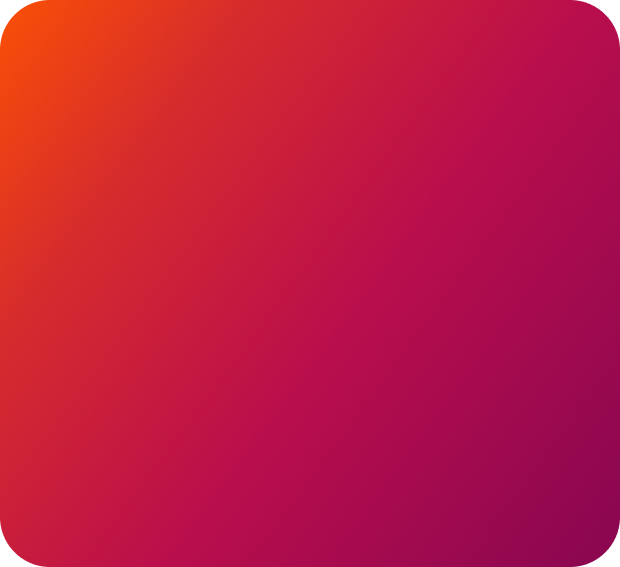
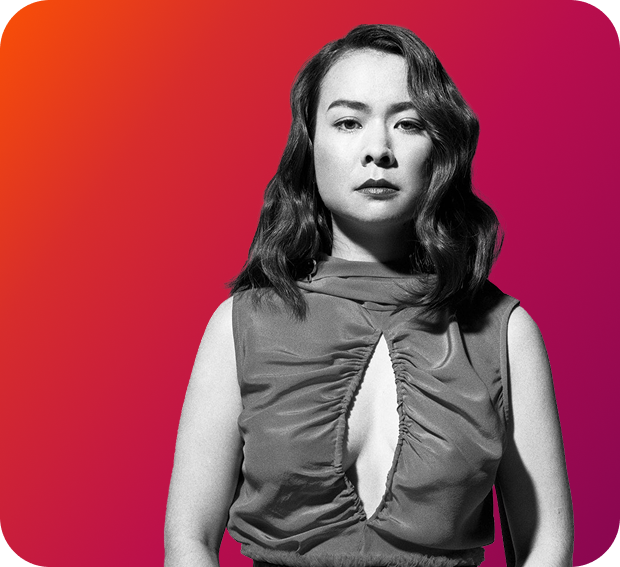
volume+progression

diff --git a/front/src/app/services/volume.service.ts b/front/src/app/services/volume.service.ts
@@ -1,0 +1,53 @@
+import { isPlatformBrowser } from '@angular/common';
+import { Injectable, PLATFORM_ID, computed, effect, inject, signal } from '@angular/core';
+
+@Injectable({ providedIn: 'root' })
+export class VolumeService {
+  private readonly STORAGE_KEY = 'app-volume';
+
+  private readonly platformId = inject(PLATFORM_ID);
+  private readonly isBrowser = isPlatformBrowser(this.platformId);
+
+  readonly volume = signal<number>(70);
+  readonly muted = signal<boolean>(false);
+
+  readonly volume01 = computed(() =>
+    this.muted() ? 0 : this.volume() / 100
+  );
+
+  constructor() {
+    if (!this.isBrowser) return;
+    this.volume.set(this.loadVolume());
+    if (this.volume() === 0) this.muted.set(true);
+
+    effect(() => {
+      const current = this.volume();
+      try {
+        localStorage.setItem(this.STORAGE_KEY, String(current));
+      } catch {}
+    });
+  }
+
+  setVolume(next: number): void {
+    const clamped = Math.max(0, Math.min(100,
+      Number.isFinite(next) ? next : 0
+    ));
+    this.volume.set(clamped);
+    if (clamped === 0) this.muted.set(true);
+    else this.muted.set(false);
+  }
+
+  toggleMute(): void {
+    this.muted.update(m => !m);
+  }
+  private loadVolume(): number {
+    if (!this.isBrowser) return 70;
+    try {
+      const stored = localStorage.getItem(this.STORAGE_KEY);
+      const parsed = Number(stored);
+      return Number.isFinite(parsed) ? Math.max(0, Math.min(100, parsed)) : 70;
+    } catch {
+      return 70;
+    }
+  }
+}

diff --git a/front/src/app/components/progression-bar/progression-bar.html b/front/src/app/components/progression-bar/progression-bar.html
@@ -1,0 +1,33 @@
+<div class="w-full rounded-full border border-[#FFE6DB]/15 bg-[#FFE6DB]/10 pl-2 pr-6 py-2 backdrop-blur-sm glass-card">
+	<div class="flex items-center gap-8 w-full min-w-0">
+		<button type="button" aria-label="Album cover" class="shrink-0 w-[3rem] h-[3rem] rounded-full overflow-hidden cursor-pointer">
+			<img src="assets/cover1.png" alt="" class="w-full h-full object-cover" />
+		</button>
+		<div class="flex items-center gap-4 shrink-0 px-4">
+			<button type="button" aria-label="Track back" class="text-[#FFE6DB] cursor-pointer">
+				<lucide-icon [img]="skipBack" class="w-[1.25rem] h-[1.25rem]"></lucide-icon>
+			</button>
+			<button type="button" [attr.aria-label]="isPlaying() ? 'Pause' : 'Play'" (click)="togglePlay()" class="text-[#FFE6DB] cursor-pointer rounded-full bg-orange-500 p-2">
+				<lucide-icon [img]="isPlaying() ? pause : play" class="w-[1.75rem] h-[1.75rem] fill-current"></lucide-icon>
+			</button>
+			<button type="button" aria-label="Track next" class="text-[#FFE6DB] cursor-pointer">
+				<lucide-icon [img]="skipForward" class="w-[1.25rem] h-[1.25rem]"></lucide-icon>
+			</button>
+		</div>
+		<div class="relative flex-1 flex items-center min-w-0 h-6 group">
+			<div class="absolute left-0 top-1/2 w-full -translate-y-1/2 h-[3px] rounded-full bg-[#FFE6DB]"></div>
+			<div
+				class="absolute left-0 top-1/2 -translate-y-1/2 h-1 rounded-full bg-orange-500 pointer-events-none"
+				[style.width.%]="progress()"
+			></div>
+			<input
+				type="range"
+				min="0" max="100" step="1"
+				[value]="progress()"
+				(input)="onInput($event)"
+				aria-label="Progress"
+				class="absolute w-full opacity-0 cursor-pointer h-6"
+			/>
+		</div>
+	</div>
+</div>

diff --git a/front/src/app/components/progression-bar/progression-bar.ts b/front/src/app/components/progression-bar/progression-bar.ts
@@ -1,0 +1,31 @@
+import { Component, signal } from '@angular/core';
+import { LucideAngularModule, Pause, Play, SkipBack, SkipForward } from 'lucide-angular';
+
+
+@Component({
+  selector: 'app-progression-bar',
+  imports: [LucideAngularModule],
+  templateUrl: './progression-bar.html',
+  styleUrl: './progression-bar.scss',
+})
+export class ProgressionBar {
+  protected readonly skipBack = SkipBack;
+  protected readonly skipForward = SkipForward;
+  protected readonly play = Play;
+  protected readonly pause = Pause;
+
+  readonly isPlaying = signal<boolean>(false);
+  readonly progress = signal<number>(35);
+
+  togglePlay(): void {
+    this.isPlaying.update((v) => !v);
+  }
+
+  onInput(event: Event): void {
+    const input = event.target as HTMLInputElement | null;
+    const next = input ? Number(input.value) : 0;
+    const clamped = Math.max(0, Math.min(100, Number.isFinite(next) ? next : 0));
+    this.progress.set(clamped);
+  }
+}
+

diff --git a/front/src/app/components/volume-slider/volume-slider.ts b/front/src/app/components/volume-slider/volume-slider.ts
@@ -1,0 +1,23 @@
+import { NgIf } from '@angular/common';
+import { Component, inject } from '@angular/core';
+import { VolumeService } from '../../services/volume.service';
+import { LucideAngularModule, Volume2, VolumeX } from 'lucide-angular';
+
+
+@Component({
+  selector: 'app-volume-slider',
+  imports: [NgIf, LucideAngularModule],
+  templateUrl: './volume-slider.html',
+  styleUrl: './volume-slider.scss',
+})
+export class VolumeSlider {
+  protected readonly volumeService = inject(VolumeService);
+
+  protected readonly volume2 = Volume2;
+  protected readonly volumeX = VolumeX;
+  protected onInput(event: Event): void {
+    const input = event.target as HTMLInputElement | null;
+    this.volumeService.setVolume(input ? Number(input.value) : 0);
+  }
+}
+

diff --git a/front/src/app/bside_app/sound-bar/sound-bar.spec.ts b/front/src/app/bside_app/sound-bar/sound-bar.spec.ts
@@ -1,0 +1,22 @@
+import { ComponentFixture, TestBed } from '@angular/core/testing';
+
+import { SoundBar } from './sound-bar';
+
+describe('SoundBar', () => {
+  let component: SoundBar;
+  let fixture: ComponentFixture<SoundBar>;
+
+  beforeEach(async () => {
+    await TestBed.configureTestingModule({
+      imports: [SoundBar],
+    }).compileComponents();
+
+    fixture = TestBed.createComponent(SoundBar);
+    component = fixture.componentInstance;
+    await fixture.whenStable();
+  });
+
+  it('should create', () => {
+    expect(component).toBeTruthy();
+  });
+});

diff --git a/front/src/app/components/icon-bar/icon-bar.spec.ts b/front/src/app/components/icon-bar/icon-bar.spec.ts
@@ -1,0 +1,22 @@
+import { ComponentFixture, TestBed } from '@angular/core/testing';
+
+import { IconBar } from './icon-bar';
+
+describe('IconBar', () => {
+  let component: IconBar;
+  let fixture: ComponentFixture<IconBar>;
+
+  beforeEach(async () => {
+    await TestBed.configureTestingModule({
+      imports: [IconBar],
+    }).compileComponents();
+
+    fixture = TestBed.createComponent(IconBar);
+    component = fixture.componentInstance;
+    await fixture.whenStable();
+  });
+
+  it('should create', () => {
+    expect(component).toBeTruthy();
+  });
+});

diff --git a/front/src/app/components/progression-bar/progression-bar.spec.ts b/front/src/app/components/progression-bar/progression-bar.spec.ts
@@ -1,0 +1,22 @@
+import { ComponentFixture, TestBed } from '@angular/core/testing';
+
+import { ProgressionBar } from './progression-bar';
+
+describe('ProgressionBar', () => {
+  let component: ProgressionBar;
+  let fixture: ComponentFixture<ProgressionBar>;
+
+  beforeEach(async () => {
+    await TestBed.configureTestingModule({
+      imports: [ProgressionBar],
+    }).compileComponents();
+
+    fixture = TestBed.createComponent(ProgressionBar);
+    component = fixture.componentInstance;
+    await fixture.whenStable();
+  });
+
+  it('should create', () => {
+    expect(component).toBeTruthy();
+  });
+});

diff --git a/front/src/app/components/volume-slider/volume-slider.spec.ts b/front/src/app/components/volume-slider/volume-slider.spec.ts
@@ -1,0 +1,22 @@
+import { ComponentFixture, TestBed } from '@angular/core/testing';
+
+import { VolumeSlider } from './volume-slider';
+
+describe('VolumeSlider', () => {
+  let component: VolumeSlider;
+  let fixture: ComponentFixture<VolumeSlider>;
+
+  beforeEach(async () => {
+    await TestBed.configureTestingModule({
+      imports: [VolumeSlider],
+    }).compileComponents();
+
+    fixture = TestBed.createComponent(VolumeSlider);
+    component = fixture.componentInstance;
+    await fixture.whenStable();
+  });
+
+  it('should create', () => {
+    expect(component).toBeTruthy();
+  });
+});

diff --git a/front/src/app/components/volume-slider/volume-slider.html b/front/src/app/components/volume-slider/volume-slider.html
@@ -1,0 +1,19 @@
+<div class="flex items-center gap-3 w-full min-w-0">
+  <button (click)="volumeService.toggleMute()" class="text-[#FFE6DB]">
+    <lucide-icon *ngIf="!volumeService.muted()" [img]="volume2" class="w-[1rem] h-[1rem]"></lucide-icon>
+    <lucide-icon *ngIf="volumeService.muted()" [img]="volumeX" class="w-[1rem] h-[1rem]"></lucide-icon>
+  </button>
+  <div class="relative flex items-center w-full min-w-0 h-6 group">
+    <div class="absolute left-0 top-1/2 w-full -translate-y-1/2 h-[3px] rounded-full bg-[#FFE6DB]"></div>
+    <div class="absolute left-0 top-1/2 -translate-y-1/2 h-1 rounded-full bg-[#FF5500] pointer-events-none" [style.width.%]="volumeService.muted() ? 0 : volumeService.volume()">
+    </div>
+    <input
+      type="range"
+      min="0" max="100" step="1"
+      [value]="volumeService.volume()"
+      (input)="onInput($event)"
+      aria-label="Volume"
+      class="absolute w-full opacity-0 cursor-pointer h-4"
+    />
+  </div>
+</div>

diff --git a/front/src/app/bside_app/sound-bar/sound-bar.ts b/front/src/app/bside_app/sound-bar/sound-bar.ts
@@ -1,0 +1,15 @@
+import { Component, inject } from '@angular/core';
+import { IconBar } from '../../components/icon-bar/icon-bar';
+import { VolumeSlider } from '../../components/volume-slider/volume-slider';
+import { ProgressionBar } from '../../components/progression-bar/progression-bar';
+import { VolumeService } from '../../services/volume.service';
+
+@Component({
+  selector: 'app-sound-bar',
+  imports: [ProgressionBar, VolumeSlider, IconBar],
+  templateUrl: './sound-bar.html',
+  styleUrl: './sound-bar.scss',
+})
+export class SoundBar {
+  protected readonly volumeService = inject(VolumeService);
+}

diff --git a/front/src/app/components/icon-bar/icon-bar.html b/front/src/app/components/icon-bar/icon-bar.html
@@ -1,0 +1,15 @@
+<div class="min-w-0 flex-none w-32">
+    <div class="w-full h-[4rem] rounded-full border border-[#FFE6DB]/15 bg-[#FFE6DB]/10 px-4 py-2 backdrop-blur-sm glass-card">
+        <div class="flex items-center justify-center gap-4 h-full">
+            <button type="button" aria-label="Like" class="text-[#FFE6DB] cursor-pointer">
+                <lucide-icon [img]="heart" class="w-[1.25rem] h-[1.25rem]"></lucide-icon>
+            </button>
+            <button type="button" aria-label="Repeat" class="text-[#FFE6DB] cursor-pointer">
+                <lucide-icon [img]="repeat" class="w-[1.25rem] h-[1.25rem]"></lucide-icon>
+            </button>
+            <button type="button" aria-label="Shuffle" class="text-[#FFE6DB] cursor-pointer">
+                <lucide-icon [img]="shuffle" class="w-[1.25rem] h-[1.25rem]"></lucide-icon>
+            </button>
+        </div>
+    </div>
+</div>

diff --git a/front/src/app/components/icon-bar/icon-bar.ts b/front/src/app/components/icon-bar/icon-bar.ts
@@ -1,0 +1,14 @@
+import { Component } from '@angular/core';
+import { LucideAngularModule, Heart, Repeat, Shuffle } from 'lucide-angular';
+
+@Component({
+  selector: 'app-icon-bar',
+  imports: [LucideAngularModule],
+  templateUrl: './icon-bar.html',
+  styleUrl: './icon-bar.scss',
+})
+export class IconBar {
+  protected readonly heart = Heart;
+  protected readonly repeat = Repeat;
+  protected readonly shuffle = Shuffle;
+}